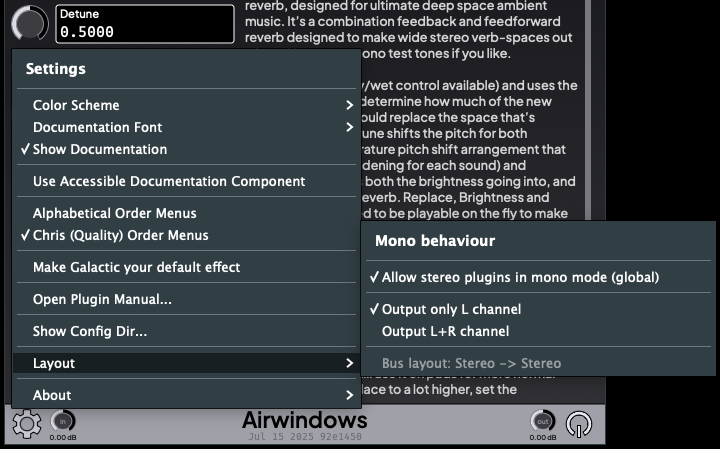
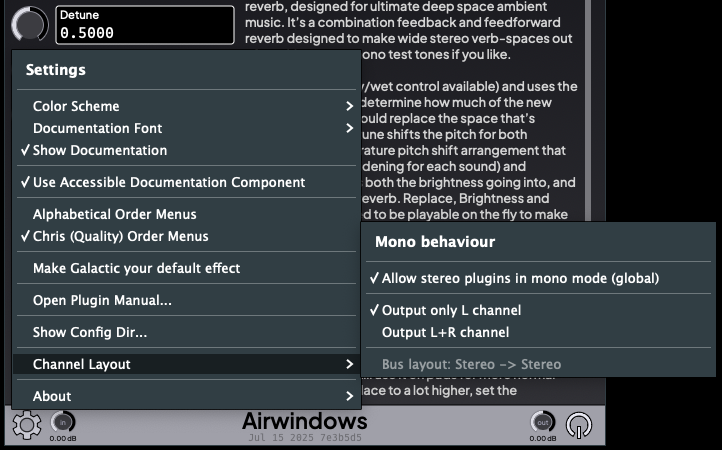
Renamed the "Layout" menu item to "Channel Layout"

diff --git a/src-juce/AWConsolidatedEditor.cpp b/src-juce/AWConsolidatedEditor.cpp
@@ -2279,7 +2279,7 @@ juce::PopupMenu AWConsolidatedAudioProcessorEditor::makeSettingsMenu(bool withHe
         });
     layout.addSeparator();
     layout.addItem("Bus layout: " + busLayout, false, false, []() {});
-    settingsMenu.addSubMenu("Layout", layout);
+    settingsMenu.addSubMenu("Channel Layout", layout);
 
     if (withHeader)
     {

diff --git a/doc/manualdaw.md b/doc/manualdaw.md
@@ -80,7 +80,7 @@ Three distinct channel layouts are supported:
 - Mono in to Mono out
 
 The chosen layout is entirely up to the plugin host, e.g. Logic Pro, Bitwig etc.
-Which layout is currently active can be seen in the settings menu under "Layout":
+Which layout is currently active can be seen in the settings menu under "Channel Layout":
 
 <img src="dawLayoutSettings.png" alt="Channel layout settings">
 
